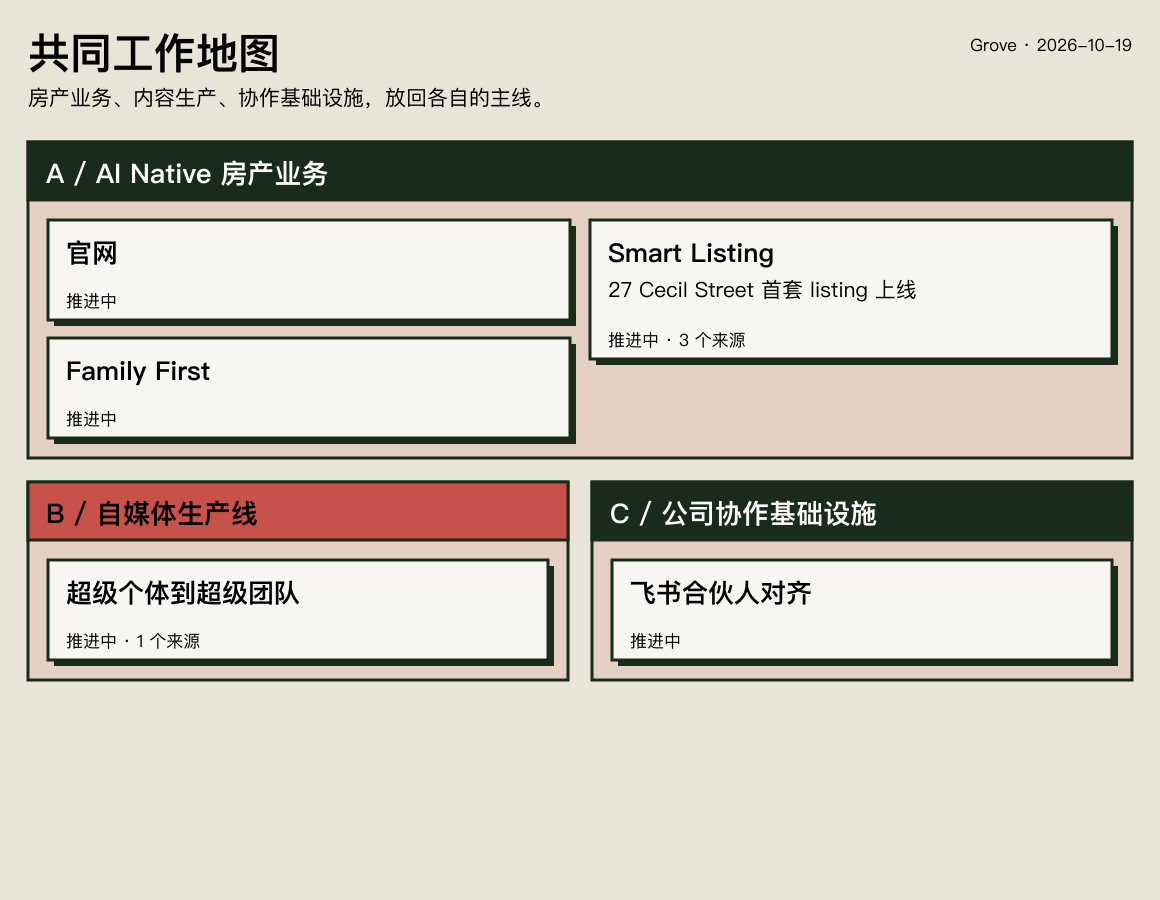
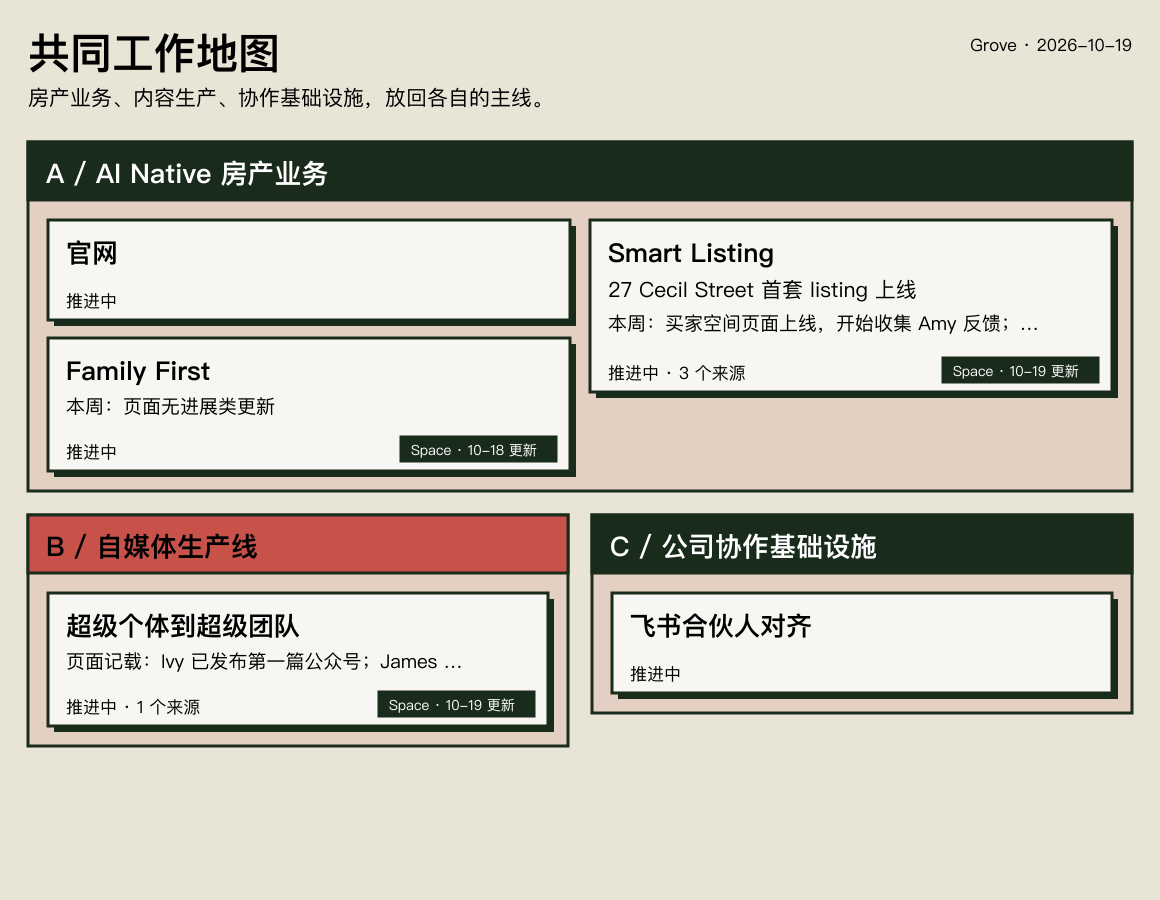
feat(space-sync): Space 本周 line and dated label on overview board cards
Space-bound project cards on the styled overview and editable whiteboard
gain one wrapped-to-one-line 本周 progress line and a small
"Space · MM-DD 更新" chip (with 可能滞后 / 权限缺失 when relevant).
Cards without a Space binding are laid out exactly as before; contrast
stays >= 4.5:1 across all 25 palettes. Adds local renders of the five
work-map palettes.

Changed region(s): [[0.0, 0.4356, 0.9931, 0.84], [0.4966, 0.3422, 0.9621, 0.4667]]

diff --git a/tests/founder-whiteboard.test.ts b/tests/founder-whiteboard.test.ts
@@ -98,12 +98,35 @@ describe('founder whiteboard',()=>{
     expect(selectFounderPalette(null,()=>0.52,'project_detail').id).toBe('riptide-cobalt');
   });
 
+  it('adds one 本周 line and a small Space date chip to a Space-bound card, leaving other cards untouched',()=>{
+    const base={id:'smart',name:'Smart Listing',stage:'active_project' as const,kind:'project' as const,outcome:'27 Cecil Street 首套 listing 上线',
+      parentName:'AiJia AI Native 房产业务',sourceCount:3};
+    const view=(smart:Record<string,unknown>)=>({kind:'work_map' as const,since:'2026-08-31T00:00:00.000Z',until:'2026-10-19T08:10:00.000Z',coverageGaps:[],topics:[
+      {id:'a',name:'AiJia AI Native 房产业务',stage:'active_project' as const,kind:'project' as const,outcome:null},
+      {id:'site',name:'官网',stage:'active_project' as const,kind:'project' as const,outcome:null,parentName:'AiJia AI Native 房产业务'},
+      {...base,...smart}]});
+    const plain=buildFounderWhiteboard({title:'工作地图',paletteId:'grove',cards:[],view:view({})});
+    const withSpace=buildFounderWhiteboard({title:'工作地图',paletteId:'grove',cards:[],view:view({space:{
+      weekLine:'本周：买家空间页面上线，开始收集 Amy 反馈；补齐周边学校与交通配套信息和价格口径',label:'Space · 10-19 更新'}})});
+    const texts=withSpace.nodes.flatMap(node=>node.text?.text?[{...node.text,text:node.text.text}]:[]);
+    const week=texts.find(text=>text.text.startsWith('本周：'))!;
+    expect(week.text.split('\n')).toHaveLength(1);
+    expect(week.text.endsWith('…')).toBe(true);
+    expect(texts.find(text=>text.text==='Space · 10-19 更新')?.font_size).toBeLessThan(17);
+    const card=(result:typeof plain)=>result.nodes.find(node=>node.type==='composite_shape'&&node.style?.fill_color!==node.style?.border_color&&
+      result.nodes.some(text=>text.text?.text==='Smart Listing'&&text.x===(node.x??0)+18&&text.y===(node.y??0)+16))!;
+    expect(card(withSpace).height!).toBeGreaterThan(card(plain).height!);
+    const siteNodes=(result:typeof plain)=>result.nodes.filter(node=>node.text?.text==='官网');
+    expect(siteNodes(withSpace)).toEqual(siteNodes(plain));
+  });
+
   it('keeps every text node readable against its actual fill in all 25 palettes',()=>{
     for(const palette of founderPalettes){
       const result=buildFounderWhiteboard({title:'工作地图',paletteId:palette.id,cards:[],view:{
         kind:'work_map',since:'2026-08-31T00:00:00.000Z',until:'2026-10-15T00:00:00.000Z',coverageGaps:[{id:'gap',summary:'不可读取 1 条'}],topics:[
           {id:'a',name:'AiJia AI Native 房产业务',stage:'active_project',kind:'project',outcome:'主线'},
-          {id:'project',name:'Smart Listing',stage:'active_project',kind:'project',outcome:'项目卡',parentName:'AiJia AI Native 房产业务'},
+          {id:'project',name:'Smart Listing',stage:'active_project',kind:'project',outcome:'项目卡',parentName:'AiJia AI Native 房产业务',
+            space:{weekLine:'本周：买家空间页面上线',label:'Space · 10-19 更新'}},
           {id:'site',name:'AiJia AI Native 官网',stage:'active_project',kind:'project',outcome:'官网',parentName:'AiJia AI Native 房产业务'},
           {id:'task',name:'团队更新',stage:'active_project',kind:'task',outcome:'任务卡',parentName:'AiJia AI Native 房产业务'},
           {id:'goal',name:'阶段一',stage:'active_project',kind:'goal',outcome:'目标卡',parentName:'AiJia AI Native 房产业务'},

diff --git a/src/services/founder-whiteboard.ts b/src/services/founder-whiteboard.ts
@@ -168,7 +168,7 @@ function layoutLane(topics:readonly FounderWorkMapBoardTopic[],x:number,y:number
         topic.kind==='idea'?`观点 / ${topic.name}`:topic.name;
       const titleLines=wrapText(title,textUnits(cardWidth-36,26),2).split('\n').length;
       const body=topic.outcome?.trim()?wrapText(topic.outcome,textUnits(cardWidth-36,21),2):'';
-      const bodyLines=body?body.split('\n').length:0,cardHeight=32+titleLines*34+(bodyLines?10+bodyLines*29:0)+34;
+      const bodyLines=body?body.split('\n').length:0,cardHeight=32+titleLines*34+(bodyLines?10+bodyLines*29:0)+(topic.space?.weekLine?spaceLineHeight:0)+34;
       const placement={topic,x:x+padding+column*(columnWidth+columnGap)+indent,y:heights[column]!,width:cardWidth,height:cardHeight,depth};
       placements.push(placement);heights[column]=placement.y+cardHeight+cardGap;
     }
@@ -176,7 +176,9 @@ function layoutLane(topics:readonly FounderWorkMapBoardTopic[],x:number,y:number
   return{x,y,width,height:Math.max(y+150,...heights)-y+2+(footer?64:0),placements,label,color,...(footer?{footer}:{})};
 }
 
-const cardGap=18;
+const cardGap=18,spaceLineHeight=33;
+/** Rendered width of a short single-line label in font-size units (CJK ≈ 1, Latin/digits ≈ 0.6). */
+function labelUnits(value:string):number{return Array.from(value).reduce((sum,char)=>sum+(/[\p{Script=Han}]/u.test(char)?1:/\s/u.test(char)?0.34:0.6),0)}
 function appendLane(nodes:FounderWhiteboardNode[],lane:LaneLayout,palette:FounderPalette,byName:ReadonlyMap<string,FounderWorkMapBoardTopic>):void{
   nodes.push(shape(lane.x,lane.y,lane.width,lane.height,palette.recess,palette.ink));
   nodes.push(shape(lane.x,lane.y,lane.width,58,lane.color,palette.ink));
@@ -195,10 +197,15 @@ function appendLane(nodes:FounderWhiteboardNode[],lane:LaneLayout,palette:Founde
       topic.kind==='idea'?`观点 / ${topic.name}`:topic.name;
     const wrappedTitle=wrapText(title,textUnits(width-36,26),2),titleLines=wrappedTitle.split('\n').length;
     nodes.push(textNode(x+18,y+16,width-36,titleLines*34,wrappedTitle,26,cardText,'bold'));
-    if(topic.outcome)nodes.push(textNode(x+18,y+22+titleLines*34,width-36,height-86,
-      wrapText(topic.outcome,textUnits(width-36,21),2),21,cardText,'regular'));
+    const outcome=topic.outcome?wrapText(topic.outcome,textUnits(width-36,21),2):'',outcomeLines=outcome?outcome.split('\n').length:0;
+    if(topic.outcome)nodes.push(textNode(x+18,y+22+titleLines*34,width-36,topic.space?outcomeLines*29+4:height-86,outcome,21,cardText,'regular'));
+    if(topic.space?.weekLine)nodes.push(textNode(x+18,y+22+titleLines*34+(outcomeLines?outcomeLines*29+6:0),width-36,27,
+      wrapText(topic.space.weekLine,textUnits(width-36,19),1),19,cardText,'regular'));
     const meta=[stageLabel(topic.stage),topic.sourceCount?`${topic.sourceCount} 个来源`:null].filter(Boolean).join(' · ');
     nodes.push(textNode(x+18,y+height-30,width-36,22,meta,17,cardText,'regular'));
+    if(topic.space){const chipWidth=Math.ceil(labelUnits(topic.space.label)*14)+20,chipX=x+width-14-chipWidth,chipY=y+height-34;
+      nodes.push(shape(chipX,chipY,chipWidth,24,palette.accent,palette.ink));
+      nodes.push(textNode(chipX+10,chipY+4,chipWidth-20,18,topic.space.label,14,readableText(palette.accent),'regular'));}
   }
   if(lane.footer){const y=lane.y+lane.height-54;
     nodes.push(shape(lane.x+20,y,lane.width-40,38,palette.secondary,palette.ink));

diff --git a/tests/space-project-page-view.test.ts b/tests/space-project-page-view.test.ts
@@ -8,7 +8,7 @@ import { SpaceProjectDigestRepository } from '../src/repositories/space-project-
 import { SpaceSyncRepository } from '../src/repositories/space-sync-repository.js';
 import { TopicRepository } from '../src/repositories/topic-repository.js';
 import { buildFounderManualQueryMessages } from '../src/services/founder-manual-query.js';
-import { loadSpaceProjectPageView, renderSpaceProjectPageLines } from '../src/services/space-project-page-view.js';
+import { loadSpaceProjectPageView, renderSpaceProjectPageLines, spaceBoardSummary } from '../src/services/space-project-page-view.js';
 
 const at = new Date('2026-10-21T02:00:00.000Z');
 const chatId = 'oc_a84d5b6ca478220d0a37964b50776edb';
@@ -134,5 +134,29 @@ describe('Space project-page block', () => {
     // An older envelope replayed late cannot reopen it.
     spaceSync.recordCommentThreadStates({ pageId: 'page_1', observedAt: at, threads: [{ threadId: 't', threadState: 'open', resolvedAt: null }] });
     expect(loadSpaceProjectPageView(h.db.client, h.topic.id, at, 30)!.comments).toMatchObject({ open: 0, resolved: 1 });
+  });
+
+  it('summarizes the project page for the overview board in one 本周 line plus a dated Space label', () => {
+    const h = setup();
+    h.digests.saveReady({ projectKey: 'smart-listing', pageId: 'page_1', pageSourceId: h.page.id, pageSourceVersion: 1,
+      pageUpdatedAt: h.page.occurredAt, generatedAt: at, changeBasis: 'version_diff', digest });
+    const view = (now: Date, stale = 1440) => loadSpaceProjectPageView(h.db.client, h.topic.id, now, stale)!;
+    expect(spaceBoardSummary(view(at))).toEqual({ weekLine: '本周：27 Cecil Street 页面上线；补齐户型图', label: 'Space · 10-21 更新' });
+    expect(spaceBoardSummary(view(new Date('2026-10-23T02:00:00.000Z')))).toEqual({ weekLine: '本周：27 Cecil Street 页面上线；补齐户型图',
+      label: 'Space · 10-21 更新 · 可能滞后' });
+    expect(spaceBoardSummary(view(new Date('2026-10-27T02:00:00.000Z'), 100_000)).weekLine).toBe('本周：页面无更新');
+  });
+
+  it('shows first-snapshot, failed and pending digests honestly on the board', () => {
+    const h = setup();
+    expect(spaceBoardSummary(loadSpaceProjectPageView(h.db.client, h.topic.id, at, 1440)!).weekLine).toBe('Space 摘要生成中');
+    h.digests.saveFailed({ projectKey: 'smart-listing', pageId: 'page_1', pageSourceId: h.page.id, pageSourceVersion: 1,
+      pageUpdatedAt: h.page.occurredAt, generatedAt: at, failureCode: 'codex_execution_failed' });
+    expect(spaceBoardSummary(loadSpaceProjectPageView(h.db.client, h.topic.id, at, 1440)!).weekLine).toBe('Space 摘要未生成');
+    const h2 = setup();
+    h2.digests.saveReady({ projectKey: 'smart-listing', pageId: 'page_1', pageSourceId: h2.page.id, pageSourceVersion: 1,
+      pageUpdatedAt: h2.page.occurredAt, generatedAt: at, changeBasis: 'first_snapshot', digest: { ...digest, todayProgress: [] } });
+    expect(spaceBoardSummary(loadSpaceProjectPageView(h2.db.client, h2.topic.id, at, 1440)!).weekLine)
+      .toBe('页面记载：27 Cecil Street 页面上线；补齐户型图');
   });
 });

diff --git a/src/services/space-project-page-view.ts b/src/services/space-project-page-view.ts
@@ -102,3 +102,26 @@ export function renderSpaceProjectPageLines(view: SpaceProjectPageView): string[
   }
   return lines;
 }
+
+/** The overview board's compact form of the same project-page block: one 本周 line and a dated label. */
+export function spaceBoardSummary(view: SpaceProjectPageView): { weekLine: string | null; label: string } {
+  const freshness = view.freshness;
+  const date = view.pageUpdatedAt ? founderMonthDay(view.pageUpdatedAt) : null;
+  const label = freshness.status === 'permission_lost' ? 'Space · 权限缺失'
+    : `Space · ${date ? `${date} 更新` : '未同步'}${freshness.status === 'stale' ? ' · 可能滞后' : ''}`;
+  const digest = view.digest;
+  const join = (items: readonly { text: string }[]) => items.map((item) => founderText(item.text, 80)).join('；');
+  let weekLine: string | null;
+  if (!digest) weekLine = view.pageUpdatedAt ? 'Space 摘要生成中' : null;
+  else if (digest.failureCode === 'pending_latest_version') weekLine = 'Space 摘要生成中';
+  else if (digest.status === 'failed' || !digest.digest) weekLine = 'Space 摘要未生成';
+  else if (digest.changeBasis === 'first_snapshot') weekLine = digest.digest.weekProgress.length ? `页面记载：${join(digest.digest.weekProgress)}` : null;
+  else if (!digest.generatedThisWeek) weekLine = '本周：页面无更新';
+  else weekLine = `本周：${digest.digest.weekProgress.length ? join(digest.digest.weekProgress) : '页面无进展类更新'}`;
+  return { weekLine, label };
+}
+
+/** MM-DD on the founder calendar (UTC+8), matching the 今日/本周 windows. */
+function founderMonthDay(value: string): string {
+  return new Date(Date.parse(value) + 8 * 60 * 60 * 1_000).toISOString().slice(5, 10);
+}

diff --git a/src/services/current-founder-work-map.ts b/src/services/current-founder-work-map.ts
@@ -10,7 +10,7 @@ import type { FounderCardEvidence } from './founder-card.js';
 import { renderFounderWorkMap, type FounderWorkMapCard, type FounderWorkMapTopic } from './founder-work-map-renderer.js';
 import type { FounderWorkMapBoardView } from './founder-board-view.js';
 import type { SpaceFreshnessSummary } from './space-sync-freshness.js';
-import type { SpaceProjectPageView } from './space-project-page-view.js';
+import { spaceBoardSummary, type SpaceProjectPageView } from './space-project-page-view.js';
 
 export interface CurrentFounderWorkMapInput {
   client: Database.Database;
@@ -70,7 +70,8 @@ export function buildCurrentFounderWorkMap(input:CurrentFounderWorkMapInput):Cur
   const cards=renderFounderWorkMap({since:input.since,until:input.until,topics:projected,uncertainGrouping:[],coverageGaps});
   const boardView:FounderWorkMapBoardView={kind:'work_map',since:input.since,until:input.until,coverageGaps,
     topics:projected.map(topic=>({id:topic.id,name:topic.displayName,stage:topic.stage,kind:topic.displayKind??'project',
-      outcome:topic.outcome,parentName:topic.parentName,sourceCount:topic.linkedSourceCount??topic.evidence.length}))};
+      outcome:topic.outcome,parentName:topic.parentName,sourceCount:topic.linkedSourceCount??topic.evidence.length,
+      ...(topic.spacePage?{space:spaceBoardSummary(topic.spacePage)}:{})}))};
   const mapId=stableId('foundermap',canonicalJson({chatId:input.chatId,since:input.since,until:input.until,
     topics:canonical.map(topic=>({id:topic.id,version:topic.currentVersion})),hiddenRoots:[...hiddenRoots].sort(),
     hideOrphanActive:preference?.hide_orphan_active===1,pages:cards.length}));

diff --git a/src/services/founder-board-view.ts b/src/services/founder-board-view.ts
@@ -8,6 +8,8 @@ export interface FounderWorkMapBoardTopic {
   outcome:string|null;
   parentName?:string;
   sourceCount?:number;
+  /** Only for a Space-bound project card: one 本周 line and a small dated Space label. */
+  space?:{weekLine:string|null;label:string};
 }
 
 export interface FounderWorkMapBoardView {
